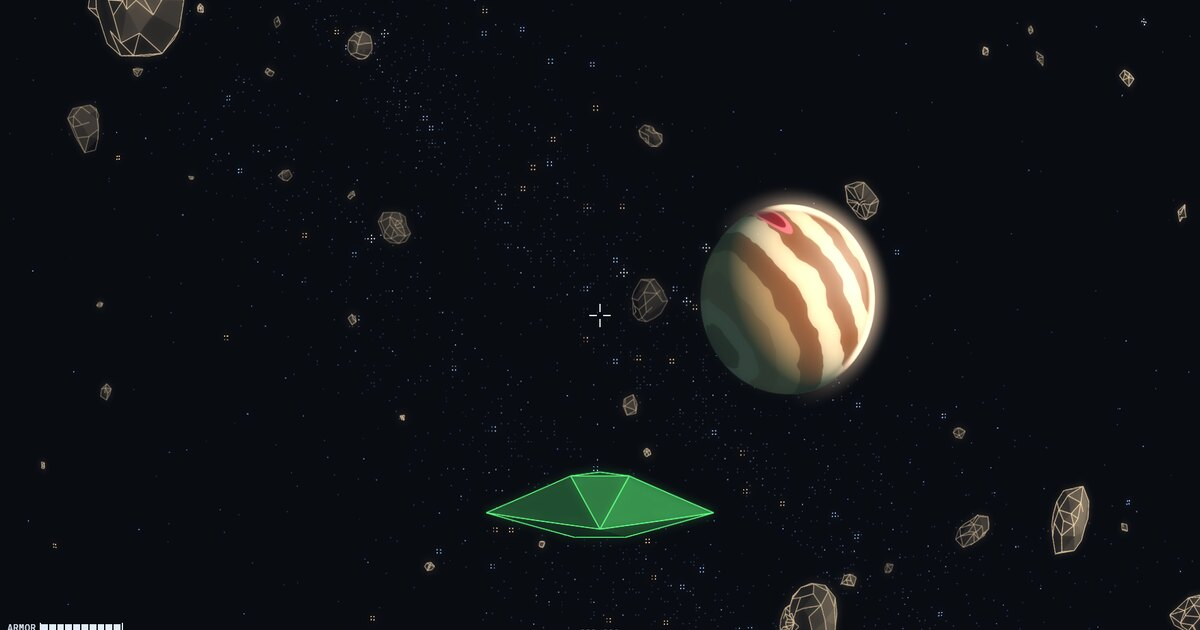
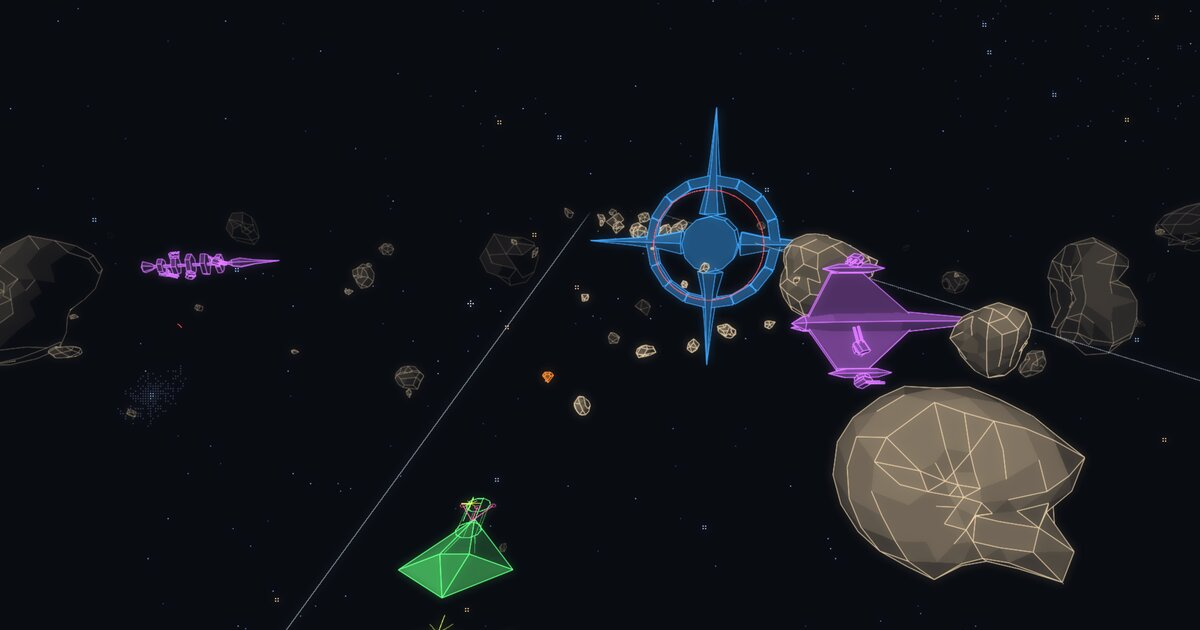
Belt Nine is an endless forward-scrolling shooter now: new copy, controls and screenshots on its page and the homepage
Claude-Session: https://claude.ai/code/session_01WLPHncQoHkyYEy7XwreGiL

diff --git a/beltnine/index.html b/beltnine/index.html
@@ -6,7 +6,7 @@
     <meta name="viewport" content="width=device-width, initial-scale=1.0">
     <title>Belt Nine</title>
     <meta name="description"
-        content="Fly a stolen ship through a living asteroid belt. Mine rocks, trade in planetary cities, take Guild work and cross wormholes with bounty hunters behind you. Play Belt Nine free in your browser, solo or with up to four players in local split screen.">
+        content="A forward-scrolling arcade shooter in vector neon. Steal a ship, blast down an endless asteroid belt through fighter squadrons, space whales, krakens and moon-sized bosses, and see how far you get. Free to play in your browser.">
     <link rel="canonical" href="https://curzel.it/beltnine/">
     <link rel="icon" href="/favicon.ico">
     <meta name="theme-color" content="#06080c">
@@ -15,9 +15,9 @@
     <meta property="og:site_name" content="Belt Nine">
     <meta property="og:title" content="Belt Nine">
     <meta property="og:description"
-        content="Mine, trade, take Guild work and outrun bounty hunters in a stolen ship. Play free in your browser, solo or with up to four players in local split screen.">
+        content="Steal a ship. Cross the Belt. See how far you get. An endless vector-neon shooter, free in your browser.">
     <meta property="og:image" content="https://curzel.it/beltnine/card.jpg">
-    <meta property="og:image:alt" content="A mining ship crossing an asteroid field past a banded gas giant">
+    <meta property="og:image:alt" content="A green wireframe ship facing a blue space station boss and a violet fighter among asteroids">
     <meta property="og:url" content="https://curzel.it/beltnine/">
     <meta name="twitter:card" content="summary_large_image">
 
@@ -28,11 +28,10 @@
       "name": "Belt Nine",
       "url": "https://curzel.it/beltnine/",
       "image": "https://curzel.it/beltnine/card.jpg",
-      "description": "Fly a stolen ship through a living asteroid belt. Mine rocks, trade in planetary cities, take Guild work, cross wormholes and outrun bounty hunters. Play solo or with up to four players in local split screen.",
-      "genre": ["Action", "Adventure", "Space Simulation", "Exploration", "Indie"],
+      "description": "A forward-scrolling arcade shooter in vector neon. Steal a ship, blast down an endless asteroid belt through fighter squadrons, space whales, krakens and moon-sized bosses, and see how far you get. Free to play in your browser.",
+      "genre": ["Action", "Arcade", "Shoot 'em up", "Indie"],
       "gamePlatform": ["Web browser", "Windows", "macOS", "Linux", "SteamOS"],
-      "playMode": ["SinglePlayer", "CoOp"],
-      "numberOfPlayers": { "@type": "QuantitativeValue", "minValue": 1, "maxValue": 4 },
+      "playMode": "SinglePlayer",
       "author": { "@type": "Person", "name": "Federico Curzel", "url": "https://curzel.it/" },
       "publisher": { "@type": "Organization", "name": "Hidden Mugs", "url": "https://curzel.it/" },
       "offers": {
@@ -438,7 +437,7 @@
         <div class="masthead">
             <div class="heading">
                 <h1>BELT NINE</h1>
-                <span class="what">A space exploration game</span>
+                <span class="what">An endless space shooter</span>
             </div>
             <div class="crumb"><a href="/">curzel.it</a></div>
             <div class="strip">Free in browser · Steam Q1 2027</div>
@@ -447,10 +446,10 @@
         <div class="body">
             <section>
                 <p class="lede">
-                    Fly a stolen ship through a living asteroid belt, with JX-9, your onboard AI and
-                    self-appointed DJ. Mine rocks, land in cities to trade and upgrade, take Guild
-                    work, and cross the belt through wormholes with bounty hunters behind you.
-                    Play solo or with up to four players in local split screen.
+                    Steal a ship. Cross the Belt. See how far you get.
+                    Belt Nine is a forward-scrolling arcade shooter drawn in vector neon: your ship
+                    flies on down an endless asteroid belt, and you slide it across the lane to
+                    shoot whatever comes the other way.
                 </p>
 
                 <div class="download-links">
@@ -484,12 +483,14 @@
             <section>
                 <div class="viewport">
                     <div class="carousel">
-                        <img src="flight.webp" width="1600" height="900" alt="Belt Nine: the ship crossing an asteroid field past a banded gas giant" fetchpriority="high">
-                        <img src="wormhole.webp" width="1600" height="900" alt="Belt Nine: a wormhole mouth open in the belt, a spiral of green and violet arcs ahead of the ship">
-                        <img src="reef.webp" width="1600" height="900" alt="Belt Nine: a reef-covered asteroid, its growths picked out in cyan">
-                        <img src="city.webp" width="1600" height="900" alt="Landed at the city of Garpha: a menu of Exchange, Shipyard and Guild over the city below">
-                        <img src="map.webp" width="1600" height="900" alt="The belt map: sectors joined by wormholes, with the pilot's sector picked out">
-                        <img src="split.webp" width="1600" height="900" alt="Four pilots in split screen, one ship per quadrant in green, pink, cyan and yellow">
+                        <img src="squadrons.webp" width="1600" height="900" alt="Belt Nine: a squadron of violet fighters sweeping down the lane at the green ship" fetchpriority="high">
+                        <img src="deathstar.webp" width="1600" height="900" alt="Belt Nine: a blue space station boss among the rocks">
+                        <img src="mimic.webp" width="1600" height="900" alt="Belt Nine: a mimic, a rock that turns out to be a great stone face">
+                        <img src="elder.webp" width="1600" height="900" alt="Belt Nine: an elder kraken's red tentacles reaching between whales">
+                        <img src="pod.webp" width="1600" height="900" alt="Belt Nine: a pod of whales crossing the belt over a planet">
+                        <img src="kraken.webp" width="1600" height="900" alt="Belt Nine: a kraken coiled in the dark">
+                        <img src="angel.webp" width="1600" height="900" alt="Belt Nine: the angel, a ring-shaped boss">
+                        <img src="destroyer.webp" width="1600" height="900" alt="Belt Nine: a destroyer looming across the lane">
                     </div>
                     <div class="carousel-controls">
                         <button id="prev" aria-label="Previous screenshot">&#10094;</button>
@@ -497,56 +498,46 @@
                     </div>
                 </div>
                 <div class="shot-foot">
-                    <span>Every sector, world and piece of music is generated from a seed.</span>
+                    <span>Every stage, creature and piece of music is grown from a seed.</span>
                     <div class="dots" id="dots" role="group" aria-label="Screenshots"></div>
                 </div>
             </section>
 
             <section>
-                <h2>Explore, mine and trade</h2>
+                <h2>On rails, two hands</h2>
                 <p class="say">
-                    Cross the belt through wormholes, one system at a time, and keep a chart of
-                    where you have been. Break asteroids apart for metal, crystal and deuterium.
-                    Weapons and boost share the same heat, so a long fight costs you your escape.
+                    The ship never turns. It flies down the track, and you slide it from side to
+                    side and push it ahead or hold it back. Hold the turbo and the belt rushes past,
+                    and the faster you go, the more every point is worth.
                 </p>
                 <p class="say">
-                    Land in cities to trade at the Exchange, fit permanent upgrades at the Shipyard,
-                    or take work from the Guild: recover lost cargo, run a courier packet, supply a
-                    port with ore, or collect a bounty. Finished jobs pay, and the credit you build
-                    up opens better work.
-                </p>
-            </section>
-
-            <section>
-                <h2>Bounty hunters and wildlife</h2>
-                <p class="say">
-                    Working a sector raises your wanted level there, and hunters come looking.
-                    Move on and let the heat die down, or stay and fight for it.
-                </p>
-                <p class="say">
-                    The belt is inhabited. Reefs grow on asteroids, things attach themselves to your
-                    hull, probe swarms strip rocks and multiply, some rocks turn out not to be
-                    rocks, and pods of whales pass through on their own business. Derelict
-                    freighters can be flown into and picked over. Black holes are exactly as
-                    forgiving as they sound.
+                    Crack rocks for points and gems, pick up rapid fire, spread shots, double points
+                    and more, and keep an eye on the gun's heat: overheat it and you are left
+                    sliding out of the way.
                 </p>
             </section>
 
             <section>
-                <h2>Local multiplayer</h2>
+                <h2>Squadrons, monsters and bosses</h2>
                 <p class="say">
-                    Up to four players can explore together in split screen. Each additional player
-                    needs a controller. Friendly fire is enabled by default and can be changed in
-                    the settings.
+                    Fighter squadrons sweep down the lane in formation. Some rocks bite back. Pods of
+                    whales drift across the track, and krakens wait in the dark. Each level ends in
+                    a boss that stops the scroll until it is down: space stations, destroyers,
+                    angels and things that should not live in space.
+                </p>
+                <p class="say">
+                    You have three lives. Lose one and you fly the level again; lose the last and
+                    the run starts over. The run itself never ends: the goal is to beat your best score.
                 </p>
             </section>
 
             <section>
                 <h2>Built from seeds</h2>
                 <p class="say">
-                    The galaxy, the worlds, the ships and the soundtrack are generated rather than
+                    The belt, the worlds, the creatures and the soundtrack are generated rather than
                     stored: there are no texture files and no audio files, just the numbers they
-                    grow from. The scene is drawn as glowing wireframe on WebGL 2.
+                    grow from. Everything is drawn as glowing wireframe by a small home-made 3D engine
+                    on WebGL 2.
                     <a href="/blog/2026_08_04_one_scene_three_renderers.html">Read how the renderer got there</a>.
                 </p>
             </section>
@@ -605,7 +596,8 @@
                         <div class="answer">
                             <p>
                                 Yes. Open the browser version on your phone or tablet and play
-                                in landscape. Touch controls appear when you touch the screen.
+                                either way up, with a thumb stick on the left and fire and turbo on
+                                the right, or drag anywhere to slide the ship.
                             </p>
                         </div>
                     </details>
@@ -614,9 +606,8 @@
                         <summary>Do I need a controller?<a class="hash" href="#controller" aria-label="Link to this question">#</a></summary>
                         <div class="answer">
                             <p>
-                                You can play solo with a keyboard and mouse, a controller, or
-                                touch controls. In split screen, each additional player needs
-                                their own controller.
+                                No. You can play with a keyboard, a mouse, a controller or touch
+                                controls.
                             </p>
                         </div>
                     </details>
@@ -626,12 +617,10 @@
 
         <div class="foot">
             <ul class="legend">
-                <li class="fkey"><span class="key">W A S D</span> Fly</li>
-                <li class="fkey"><span class="key">Mouse</span> Aim</li>
+                <li class="fkey"><span class="key">A D</span> Slide</li>
+                <li class="fkey"><span class="key">W S</span> Speed</li>
                 <li class="fkey"><span class="key">Space</span> Fire</li>
-                <li class="fkey"><span class="key">Shift</span> Boost</li>
-                <li class="fkey"><span class="key">Q E</span> Roll</li>
-                <li class="fkey"><span class="key">X</span> Brake</li>
+                <li class="fkey"><span class="key">Shift</span> Turbo</li>
                 <li class="fkey"><span class="key">Esc</span> Menu</li>
             </ul>
             <ul class="links">

diff --git a/index.html b/index.html
@@ -76,20 +76,19 @@
 
         <section>
             <h3>Belt Nine</h3>
-            Fly a stolen ship through a living asteroid belt: mine rocks, trade in planetary cities,
-            upgrade your ship and take Guild work while bounty hunters look for you.<br>
-            Cross the belt through wormholes, past whales, probe swarms, derelict freighters and black holes.<br>
-            Play solo or with up to four players in local split screen.<br>
-            I built it in vanilla JavaScript on WebGL 2, with a generated galaxy and a synthesized soundtrack.
+            Steal a ship. Cross the Belt. See how far you get.<br>
+            An endless forward-scrolling arcade shooter in vector neon: slide your ship across the lane and blast through
+            fighter squadrons, space whales, krakens and bosses the size of moons, faster and faster for a bigger score.<br>
+            I built it in vanilla JavaScript on WebGL 2, with a home-made 3D engine, a generated belt and a synthesized soundtrack.
             <a href="blog/2026_08_04_one_scene_three_renderers.html">Read about the renderers</a>.<br>
             Free to play in your browser. The desktop release is planned for Q1 2027;
             <a href="https://store.steampowered.com/app/4686590/Belt_Nine/">wishlist Belt Nine on Steam</a>.
 
             <a href="beltnine/index.html" class="noprint">
                 <div class="previews">
-                    <img src="beltnine/flight.webp" alt="Belt Nine: the ship crossing an asteroid field past a banded gas giant">
-                    <img src="beltnine/wormhole.webp" alt="Belt Nine: a wormhole mouth open in the belt, a spiral of green and violet arcs">
-                    <img src="beltnine/city.webp" alt="Landed at a Belt Nine city: a menu of Exchange, Shipyard and Guild">
+                    <img src="beltnine/squadrons.webp" alt="Belt Nine: a squadron of violet fighters sweeping down the lane at the green ship">
+                    <img src="beltnine/deathstar.webp" alt="Belt Nine: a blue space station boss among the rocks">
+                    <img src="beltnine/elder.webp" alt="Belt Nine: an elder kraken's red tentacles reaching between whales">
                 </div>
             </a>
 
